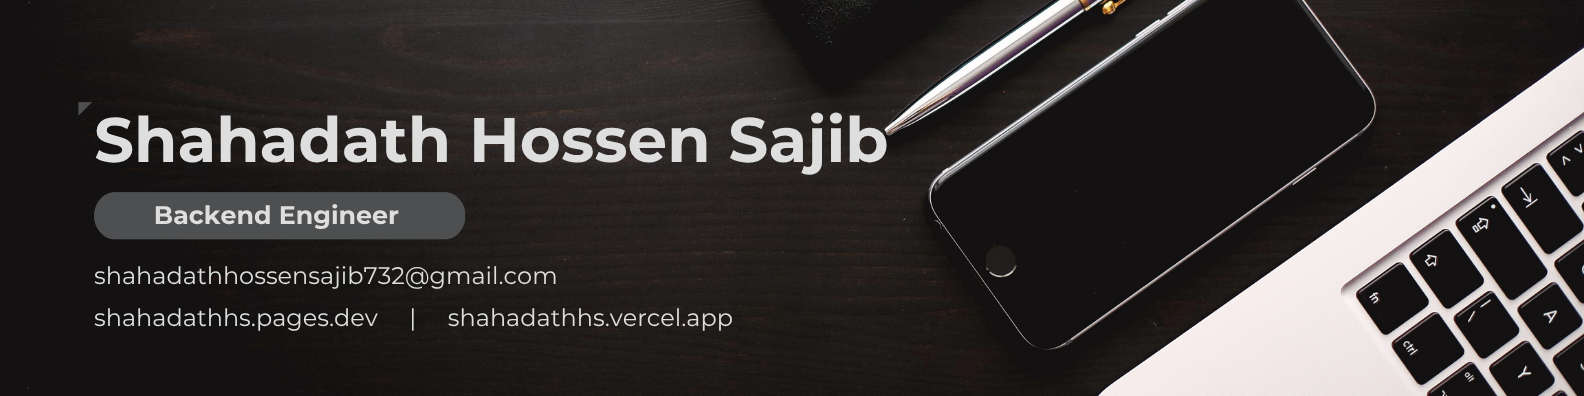
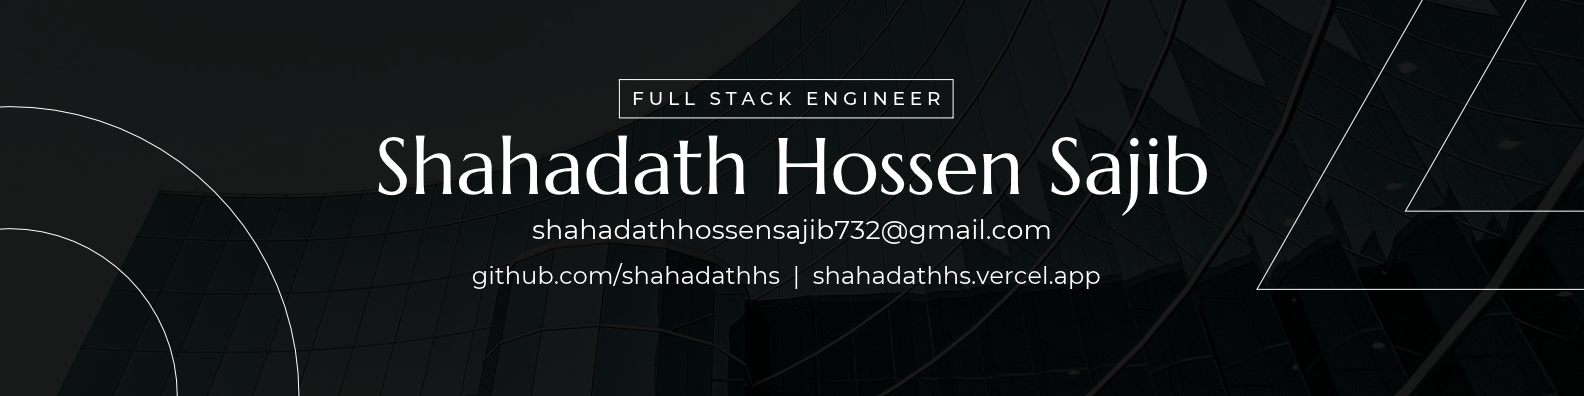
feat(profile): full stack role, new Canva cover, sync landing page

diff --git a/docs/index.html b/docs/index.html
@@ -6,10 +6,10 @@
     <meta name="viewport" content="width=device-width, initial-scale=1.0">
 
     <!-- Primary Meta Tags -->
-    <title>Shahadath Hossen Sajib — Backend Engineer (Node.js, NestJS, Python)</title>
-    <meta name="title" content="Shahadath Hossen Sajib — Backend Engineer (Node.js, NestJS, Python)">
-    <meta name="description" content="Backend Engineer specializing in scalable APIs, distributed systems, and AI-powered backend services. Node.js, NestJS, TypeScript, Python, FastAPI — PostgreSQL, MongoDB, Redis — Docker, AWS, CI/CD.">
-    <meta name="keywords" content="Shahadath Hossen Sajib, Sajib, Backend Engineer, Backend Developer, Node.js, NestJS, TypeScript, Python, FastAPI, PostgreSQL, MongoDB, Redis, Docker, AWS, Microservices, RAG, AI, Dhaka, Bangladesh">
+    <title>Shahadath Hossen Sajib — Full Stack Engineer (Node.js, NestJS, React, Python)</title>
+    <meta name="title" content="Shahadath Hossen Sajib — Full Stack Engineer (Node.js, NestJS, React, Python)">
+    <meta name="description" content="Full Stack Engineer (backend-focused) building scalable APIs, real-time systems, and AI-powered applications. React, Next.js, Node.js, NestJS, TypeScript, Python, FastAPI — PostgreSQL, MongoDB, Redis — Docker, AWS, CI/CD.">
+    <meta name="keywords" content="Shahadath Hossen Sajib, Sajib, Full Stack Engineer, Full Stack Developer, Backend Engineer, Backend Developer, React, Next.js, Node.js, NestJS, TypeScript, Python, FastAPI, PostgreSQL, MongoDB, Redis, Docker, AWS, Microservices, RAG, AI, Dhaka, Bangladesh">
     <meta name="author" content="Shahadath Hossen Sajib">
     <meta name="robots" content="index, follow, max-image-preview:large, max-snippet:-1, max-video-preview:-1">
     <meta name="googlebot" content="index, follow">
@@ -25,20 +25,20 @@
     <!-- Open Graph / Facebook -->
     <meta property="og:type" content="website">
     <meta property="og:url" content="https://shahadathhs.github.io/">
-    <meta property="og:title" content="Shahadath Hossen Sajib — Backend Engineer">
-    <meta property="og:description" content="Backend Engineer specializing in scalable APIs, distributed systems, and AI-powered backend services using Node.js, NestJS, TypeScript, and Python.">
+    <meta property="og:title" content="Shahadath Hossen Sajib — Full Stack Engineer">
+    <meta property="og:description" content="Full Stack Engineer (backend-focused) building scalable APIs, real-time systems, and AI-powered applications with TypeScript, React, Next.js, Node.js, NestJS, and Python.">
     <meta property="og:image" content="https://shahadathhs.github.io/hero.png">
-    <meta property="og:image:alt" content="Shahadath Hossen Sajib — Backend Engineer Portfolio">
+    <meta property="og:image:alt" content="Shahadath Hossen Sajib — Full Stack Engineer Portfolio">
     <meta property="og:site_name" content="Shahadath Hossen Sajib">
     <meta property="og:locale" content="en_US">
 
     <!-- Twitter / X Card -->
     <meta name="twitter:card" content="summary_large_image">
     <meta name="twitter:url" content="https://shahadathhs.github.io/">
-    <meta name="twitter:title" content="Shahadath Hossen Sajib — Backend Engineer">
-    <meta name="twitter:description" content="Backend Engineer specializing in scalable APIs, distributed systems, and AI-powered backend services using Node.js, NestJS, TypeScript, and Python.">
+    <meta name="twitter:title" content="Shahadath Hossen Sajib — Full Stack Engineer">
+    <meta name="twitter:description" content="Full Stack Engineer (backend-focused) building scalable APIs, real-time systems, and AI-powered applications with TypeScript, React, Next.js, Node.js, NestJS, and Python.">
     <meta name="twitter:image" content="https://shahadathhs.github.io/hero.png">
-    <meta name="twitter:image:alt" content="Shahadath Hossen Sajib — Backend Engineer Portfolio">
+    <meta name="twitter:image:alt" content="Shahadath Hossen Sajib — Full Stack Engineer Portfolio">
     <meta name="twitter:creator" content="@shahadathhs">
 
     <!-- Performance: preconnect to external hosts -->
@@ -56,8 +56,8 @@
         "name": "Shahadath Hossen Sajib",
         "givenName": "Shahadath",
         "familyName": "Hossen Sajib",
-        "jobTitle": "Backend Engineer",
-        "description": "Backend Engineer specializing in scalable APIs, distributed systems, and AI-powered backend services.",
+        "jobTitle": "Full Stack Engineer",
+        "description": "Full Stack Engineer (backend-focused) building scalable APIs, real-time systems, and AI-powered applications.",
         "url": "https://shahadathhs.github.io/",
         "image": "https://shahadathhs.github.io/hero.png",
         "email": "mailto:shahadathhossensajib732@gmail.com",
@@ -1296,7 +1296,7 @@
 </head>
 
 <body>
-    <h1 class="sr-only">Shahadath Hossen Sajib — Backend Engineer specializing in scalable APIs, distributed systems, and AI-powered backend services using Node.js, NestJS, TypeScript, and Python.</h1>
+    <h1 class="sr-only">Shahadath Hossen Sajib — Full Stack Engineer, backend-focused, building scalable APIs, real-time systems, and AI-powered applications with TypeScript, React, Next.js, Node.js, NestJS, and Python.</h1>
 
     <div class="ambient-box">
         <div class="blob"></div>
@@ -1306,11 +1306,11 @@
     <div class="container">
         <!-- Hero -->
         <header>
-            <div class="hero-badge">Backend Engineer</div>
-            <h2 class="hero-tagline">I build robust, high-performance backend systems.</h2>
+            <div class="hero-badge">Full Stack Engineer</div>
+            <h2 class="hero-tagline">I build full stack products on robust, high-performance backends.</h2>
             <p class="hero-desc">
-                Hey there, I'm <strong>Shahadath Hossen Sajib</strong> — Backend Engineer specializing in scalable APIs,
-                distributed backend systems, and AI-powered services using Node.js, NestJS, TypeScript, and Python.
+                Hey there, I'm <strong>Shahadath Hossen Sajib</strong> — Full Stack Engineer, backend-focused, building scalable APIs,
+                real-time systems, and AI-powered services with TypeScript, React, Next.js, Node.js, NestJS, and Python.
             </p>
             <div class="social-links">
                 <a href="https://drive.google.com/file/d/1dtZCEgZyof-qrUreeVpXDlOovosegpuf/view" target="_blank" class="btn btn-primary">Resume →</a>
@@ -1324,9 +1324,9 @@
             <h2 class="sec-title">👋 About Me</h2>
             <div class="glass-card">
                 <p style="font-size: 1.1rem; color: var(--text-dim); margin-bottom: 1.5rem;">
-                    I'm a <strong>Backend Engineer</strong> who builds scalable APIs, distributed systems, and AI-powered
-                    backend services with <strong>Node.js</strong>, <strong>NestJS</strong>, <strong>TypeScript</strong>,
-                    and <strong>Python</strong>. I design high-performance RESTful APIs, real-time applications, and
+                    I'm a <strong>Full Stack Engineer</strong> with a backend focus who builds scalable APIs, distributed systems, and AI-powered
+                    applications with <strong>TypeScript</strong>, <strong>React</strong>, <strong>Next.js</strong>, <strong>Node.js</strong>,
+                    <strong>NestJS</strong>, and <strong>Python</strong>. I design high-performance RESTful APIs, real-time applications, and
                     event-driven architectures — and ship them end-to-end, from data modeling to production deployment.
                 </p>
                 <p style="font-size: 1.05rem; color: var(--text-dim); margin-bottom: 2rem;">

diff --git a/README.md b/README.md
@@ -9,7 +9,7 @@
 
 ## 👋 About Me
 
-**Hey there, I'm Shahadath Hossen Sajib (Sajib)** — Backend Engineer who builds **scalable APIs, distributed systems, and AI-powered backend services** with **Node.js**, **NestJS**, **TypeScript**, and **Python**.
+**Hey there, I'm Shahadath Hossen Sajib (Sajib)** — Full Stack Engineer, backend-focused, who builds **scalable APIs, real-time systems, and AI-powered applications** with **TypeScript**, **React**, **Next.js**, **Node.js**, **NestJS**, and **Python**.
 
 I design high-performance **RESTful APIs**, **real-time applications**, and **event-driven architectures**, and ship them end-to-end — from data modeling through production deployment. Most of my work sits at the intersection of **microservices**, **real-time features**, and **AI integration** (RAG, tool calling, document retrieval).
 
@@ -17,7 +17,7 @@ I design high-performance **RESTful APIs**, **real-time applications**, and **ev
 - ⚡ **Real-time & queues:** Socket.IO, WebRTC, BullMQ for live updates and background workloads
 - 🤖 **AI/LLM:** OpenAI API, Ollama, RAG pipelines, and vector search for intelligent features
 - 🐳 **DevOps:** Docker, GitHub Actions CI/CD, AWS (EC2 & S3), Nginx, and Caddy on Linux VPS
-- 🤝 Open to collaboration on backend-heavy, AI-integrated, or distributed systems work
+- 🤝 Open to collaboration on full stack, backend-heavy, or AI-integrated work
 
 ---
 
@@ -39,7 +39,7 @@ I design high-performance **RESTful APIs**, **real-time applications**, and **ev
 | Category           | Tools & Technologies                                                                                                                                                                                                                                                                                                                                                                                                                                                                                                                            |
 | :----------------- | :---------------------------------------------------------------------------------------------------------------------------------------------------------------------------------------------------------------------------------------------------------------------------------------------------------------------------------------------------------------------------------------------------------------------------------------------------------------------------------------------------------------------------------------------- |
 | **Languages**      | ![TypeScript](https://img.shields.io/badge/TypeScript-3178C6?style=for-the-badge&logo=typescript&logoColor=white) ![JavaScript](https://img.shields.io/badge/JavaScript-F7DF1E?style=for-the-badge&logo=javascript&logoColor=black) ![Python](https://img.shields.io/badge/Python-3776AB?style=for-the-badge&logo=python&logoColor=white)                                                                                                                                                                                                          |
-| **Backend**        | ![NodeJS](https://img.shields.io/badge/Node.js-339933?style=for-the-badge&logo=nodedotjs&logoColor=white) ![NestJS](https://img.shields.io/badge/NestJS-E0234E?style=for-the-badge&logo=nestjs&logoColor=white) ![FastAPI](https://img.shields.io/badge/FastAPI-009688?style=for-the-badge&logo=fastapi&logoColor=white) ![Express](https://img.shields.io/badge/Express-000000?style=for-the-badge&logo=express&logoColor=white)                                                                                                                     |
+| **Web Development** | ![React](https://img.shields.io/badge/React-20232A?style=for-the-badge&logo=react&logoColor=61DAFB) ![Next.js](https://img.shields.io/badge/Next.js-000000?style=for-the-badge&logo=nextdotjs&logoColor=white) ![NodeJS](https://img.shields.io/badge/Node.js-339933?style=for-the-badge&logo=nodedotjs&logoColor=white) ![NestJS](https://img.shields.io/badge/NestJS-E0234E?style=for-the-badge&logo=nestjs&logoColor=white) ![FastAPI](https://img.shields.io/badge/FastAPI-009688?style=for-the-badge&logo=fastapi&logoColor=white) ![Express](https://img.shields.io/badge/Express-000000?style=for-the-badge&logo=express&logoColor=white)                                                                                                                     |
 | **Databases**      | ![PostgreSQL](https://img.shields.io/badge/PostgreSQL-4169E1?style=for-the-badge&logo=postgresql&logoColor=white) ![MongoDB](https://img.shields.io/badge/MongoDB-47A248?style=for-the-badge&logo=mongodb&logoColor=white) ![Redis](https://img.shields.io/badge/Redis-DC382D?style=for-the-badge&logo=redis&logoColor=white)                                                                                                                                                                                                                     |
 | **ORM / ODM**      | ![Prisma](https://img.shields.io/badge/Prisma-2D3748?style=for-the-badge&logo=prisma&logoColor=white) ![Mongoose](https://img.shields.io/badge/Mongoose-880000?style=for-the-badge&logo=mongoose&logoColor=white) ![Drizzle](https://img.shields.io/badge/Drizzle-C5F74F?style=for-the-badge&logo=drizzle&logoColor=black)                                                                                                                                                                                                                         |
 | **Messaging & Real-time** | ![Socket.io](https://img.shields.io/badge/Socket.io-010101?style=for-the-badge&logo=socketdotio&logoColor=white) ![WebRTC](https://img.shields.io/badge/WebRTC-333333?style=for-the-badge&logo=webrtc&logoColor=white) ![BullMQ](https://img.shields.io/badge/BullMQ-CD0000?style=for-the-badge&logo=redis&logoColor=white)                                                                                                                                                                                                              |
@@ -50,14 +50,14 @@ I design high-performance **RESTful APIs**, **real-time applications**, and **ev
 
 ## 💼 Experience
 
-**Back End Developer — Digital Pylot** _(Feb 2026 – Present)_ · Dhaka, Bangladesh · On-site
+**Backend Developer — Digital Pylot** _(Feb 2026 – Present)_ · Dhaka, Bangladesh · On-site
 
 - Building a large-scale **CRM & dynamic CMS platform** on a microservices architecture across backend, AI, and deployment
 - Shipped a fully customizable CMS (themes, layouts, pages, dynamic content with no code changes) and a **custom RAG chatbot** with tool calling and document retrieval
 - Built role-based notifications and dynamic configuration that power complex business workflows
 - Run production deployments on **Linux VPS** with Nginx, SSL, and CI/CD across services
 
-**Back End Developer — Softvence Agency** _(Jul 2025 – Feb 2026)_ · Dhaka, Bangladesh · On-site
+**Backend Developer — Softvence Agency** _(Jul 2025 – Feb 2026)_ · Dhaka, Bangladesh · On-site
 
 - Built an **Uber-style logistics platform** — live tracking, dynamic routing, multi-party coordination, and weather-aware routing
 - Engineered a **payment engine** for subscriptions, promo codes, and rule-based payouts, plus HR workflows with payroll automation
